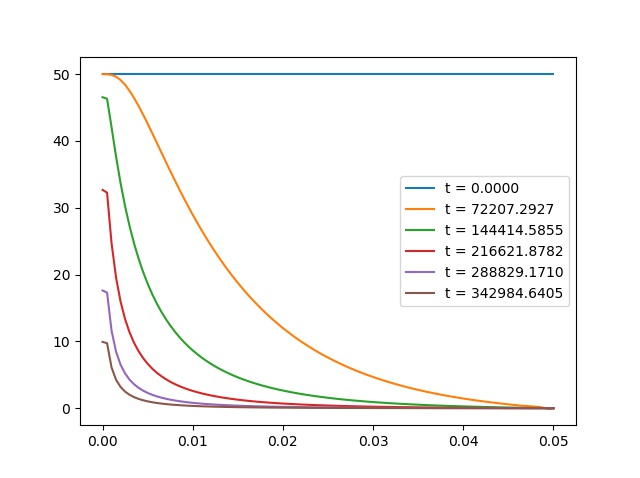
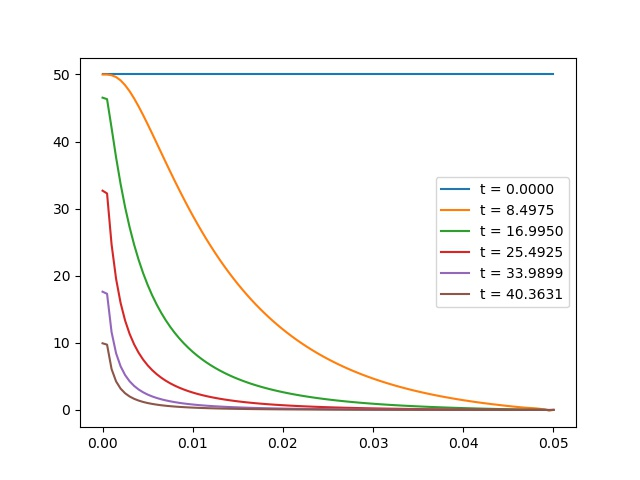
in lesson

diff --git a/laba_3/laba_3.py b/laba_3/laba_3.py
@@ -15,7 +15,7 @@ c = 380
 ro =8900
 
 def print_time(t, tay):
-    return t*tay*R**2/(lam/c/ro)**2
+    return t*tay*R**2/(lam/c/ro)
 
 def show_res(h, y):
     x = np.arange(0,1+h,h)
@@ -50,6 +50,11 @@ def show_all_res(h, tay, y_res, t_end):
 
 def x_i_plus_1_2 (i, h):
     return integrate.quad(lambda x : x**2, i*h , (i+1)*h)[0] / h
+    # return ((i-0.5)*h)**2
+
+def x_i (i,h):
+    # return integrate.quad(lambda x : x**2, i*h , (i+1)*h)[0] / h
+    return h*i
 
 
 def create_matrix (h, tay):
@@ -57,18 +62,18 @@ def create_matrix (h, tay):
     A = np.zeros((N+1,N+1))
     for i in range(1, N):
         A[i][i-1] = -0.5/h**2 * (x_i_plus_1_2(i-1, h))**2
-        A[i][i] = (i*h)**2/tay + 0.5/h**2 *((x_i_plus_1_2(i-1, h))**2 + (x_i_plus_1_2(i, h))**2)
+        A[i][i] = x_i(i,h)**2/tay + 0.5/h**2 *((x_i_plus_1_2(i-1, h))**2 + (x_i_plus_1_2(i, h))**2)
         A[i][i+1] = -0.5/h**2 * (x_i_plus_1_2(i, h))**2
     
     A[N,N] = 1
 
-    # A[0,0] = h/tay + 1/h
-    # A[0,1] = -1/h
+    # A[0,0] = h/tay/2 + 1/h
+    # A[0,1] = h/tay/2 -1/h
 
-    A[0][0] = 1/tay
+    # A[0][0] = 1/tay
 
-    # A[0,0] = 1/tay + 1/h
-    # A[0,1] = -1/h
+    A[0,0] = 1/tay + 0.5/h
+    A[0,1] = -0.5/h
 
     return A
 
@@ -85,15 +90,15 @@ def result (h, tay):
 
         for i in range(1, N):
             F[i] = y_j[i-1]*(0.5/h**2 * (x_i_plus_1_2(i-1, h))**2) \
-                + y_j[i]*((i*h)**2/tay - 0.5/h**2 *((x_i_plus_1_2(i-1, h))**2 + (x_i_plus_1_2(i, h))**2))\
+                + y_j[i]*(x_i(i,h)**2/tay - 0.5/h**2 *((x_i_plus_1_2(i-1, h))**2 + (x_i_plus_1_2(i, h))**2))\
                     + y_j[i+1]*(0.5/h**2 * (x_i_plus_1_2(i, h))**2)
         
         F[N] = -1
-        # F[0] = y_j[0]*(h/tay - 1/h) + y_j[1]*(1/h)
-        F[0] = 1/h*(y_j[1] - y_j[0]) + y_j[0]/tay
+        # F[0] = y_j[0]*(h/tay/2 - 1/h) + y_j[1]*(h/2/tay + 1/h)
+        # F[0] = 1/h*(y_j[1] - y_j[0]) + y_j[0]/tay
 
 
-        #F[0] = y_j[0]*(1/tay - 1/h) + y_j[1]*(1/h)
+        F[0] = y_j[0]*(1/tay - 0.5/h) + y_j[1]*(0.5/h)
 
         y_j = np.linalg.solve(A,F)
 
